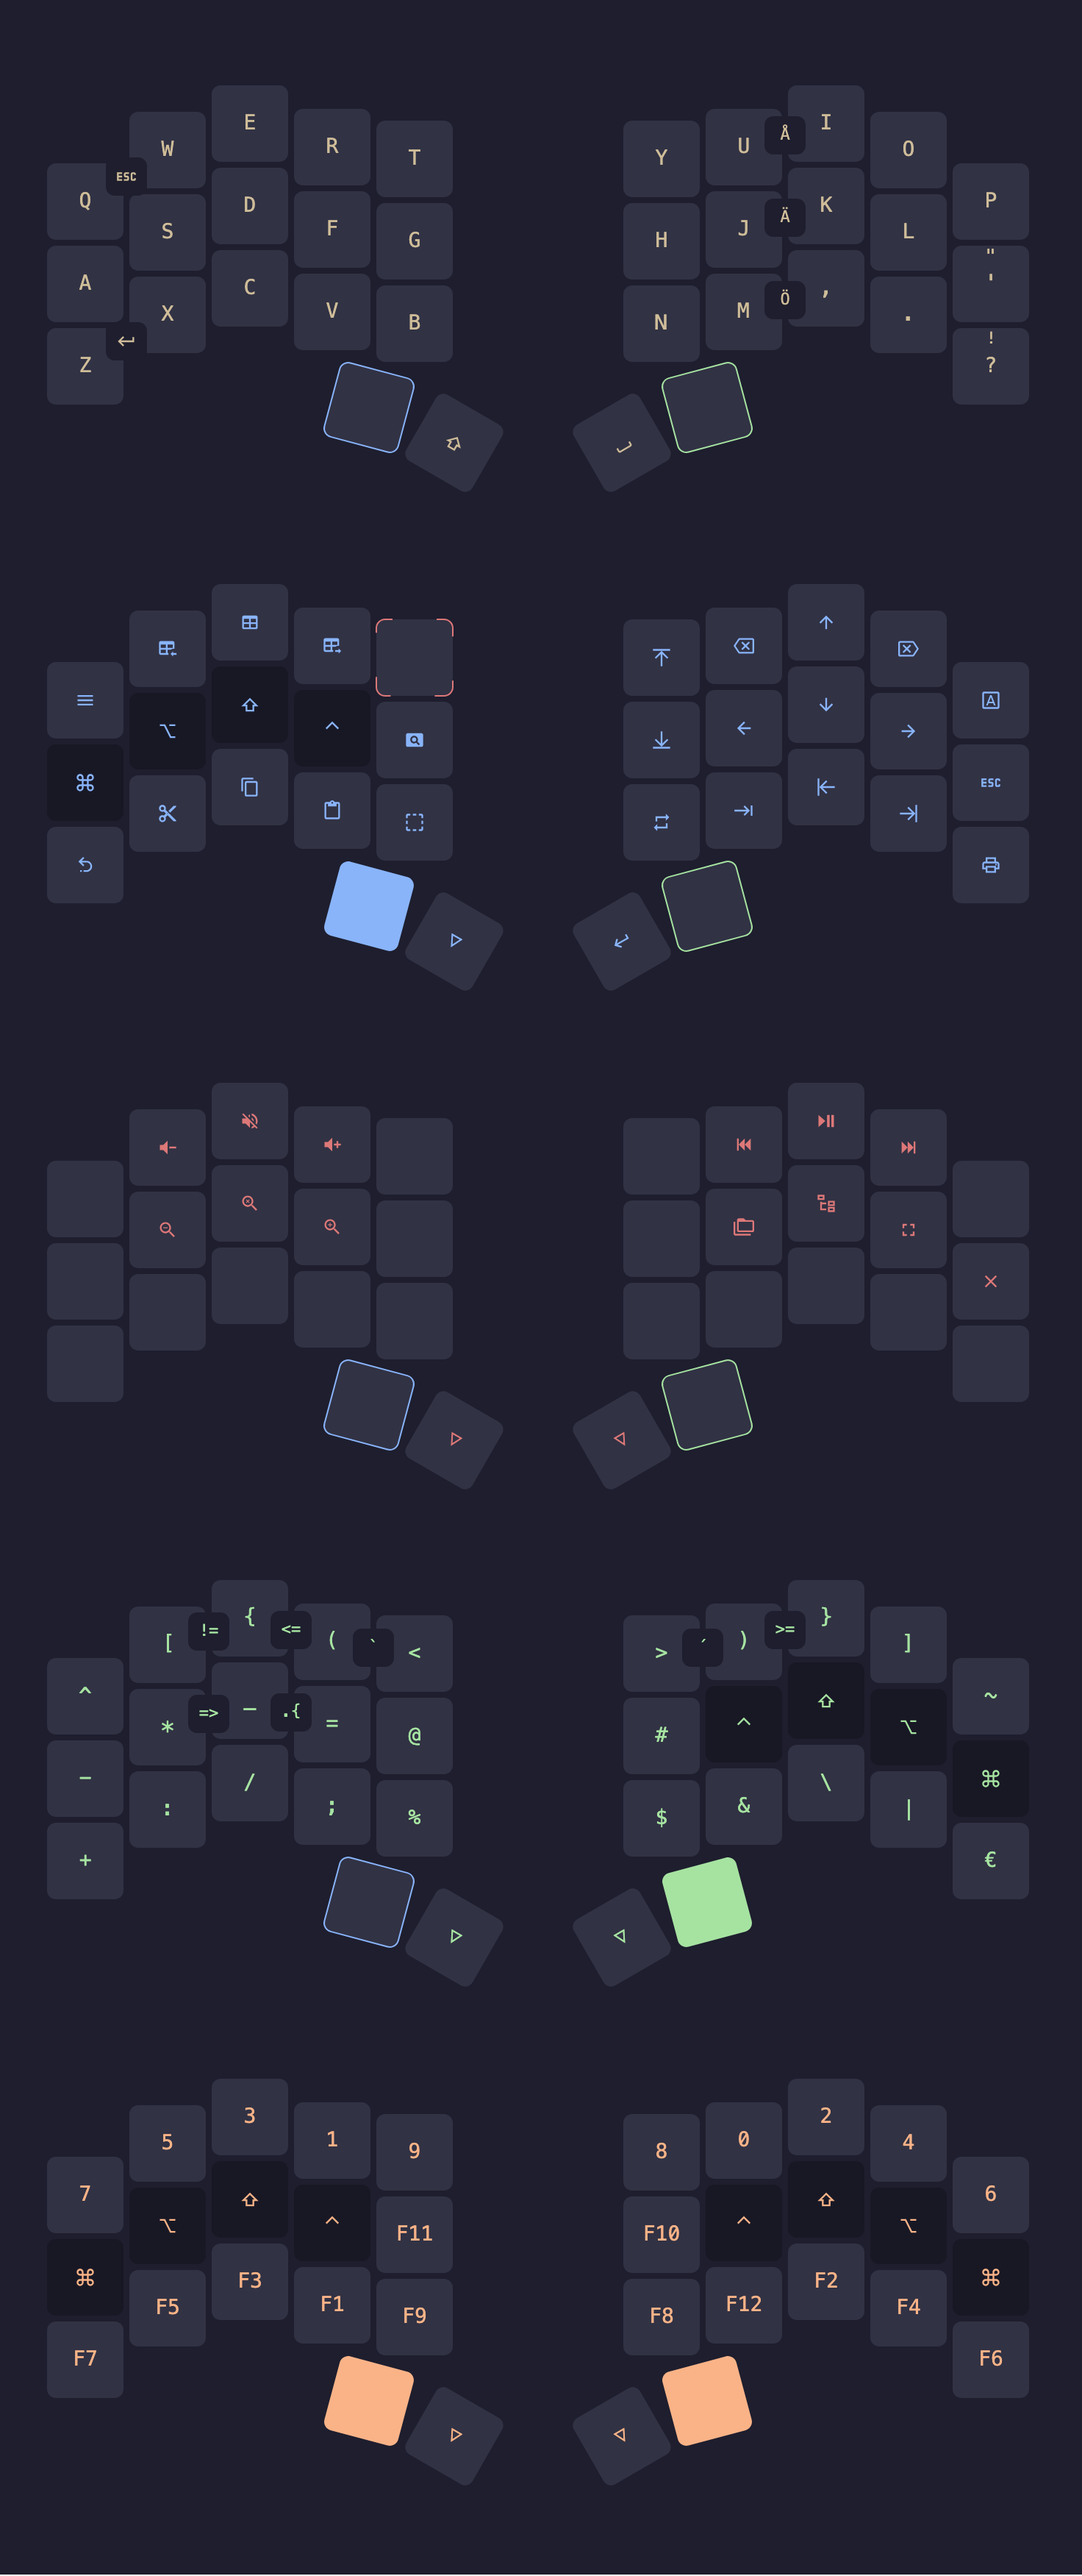
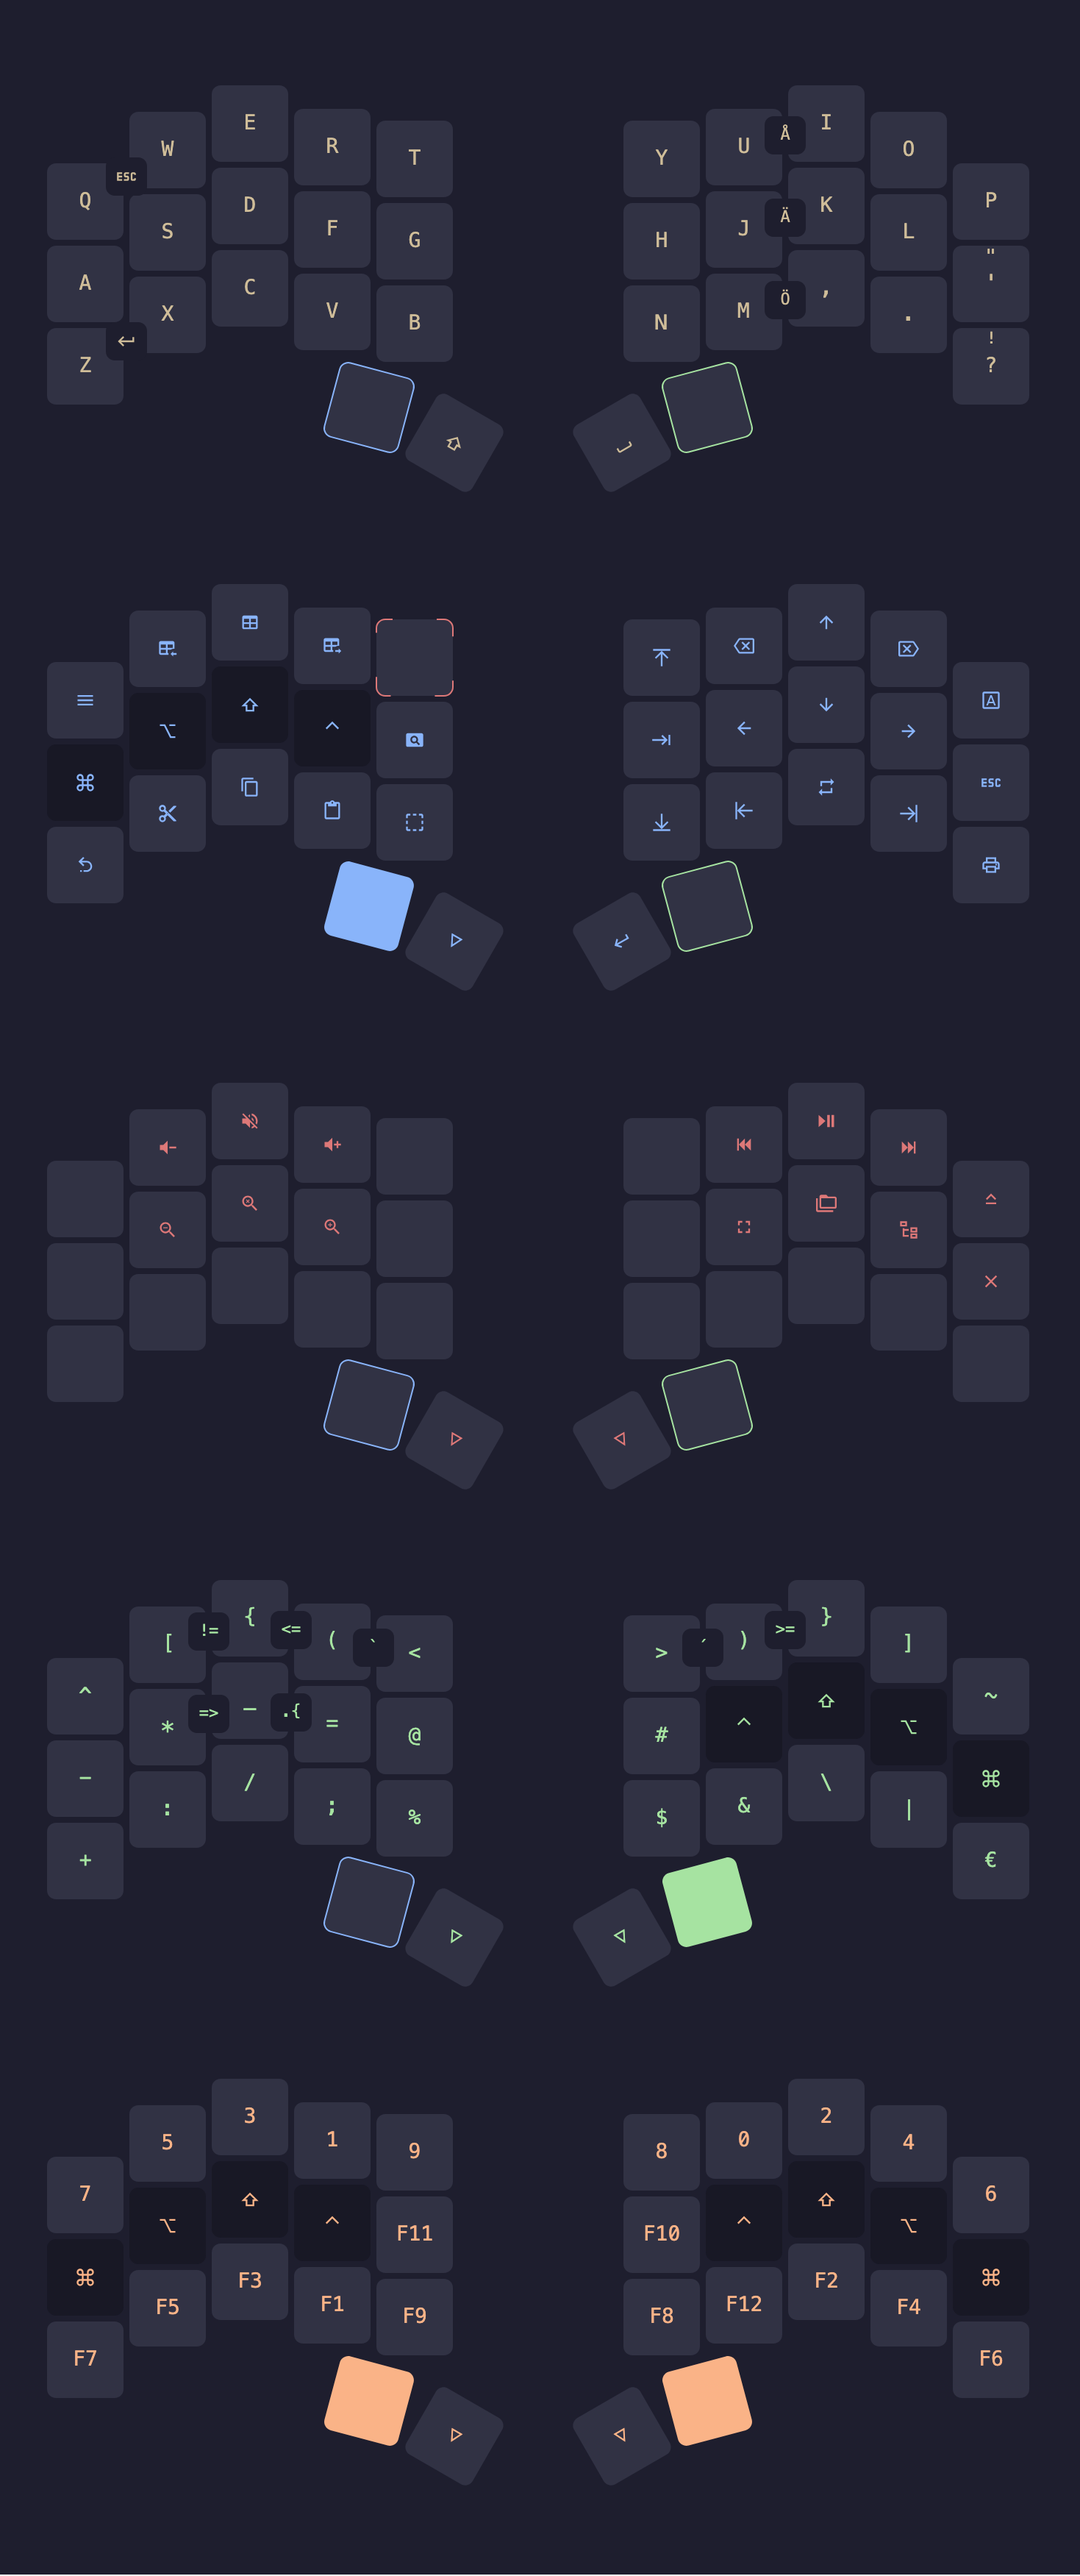
update both

Changed region(s): [[0.6739, 0.5291, 0.7046, 0.5603], [0.6127, 0.5291, 0.6433, 0.5603]]

diff --git a/ferris/keymap.c b/ferris/keymap.c
@@ -47,17 +47,17 @@ const uint16_t PROGMEM keymaps[][MATRIX_ROWS][MATRIX_COLS] = {
   ),
 
   [NAV] = LAYOUT_ferris_hlc(
-    KC_APP,  TB_LEFT, TB_NEXT, TB_RIGHT,LA_EXT,          KC_PGUP, KC_BSPC, KC_UP,   KC_DEL,  KC_CAPS,
-    OS_GUI,  OS_ALT,  OS_SHFT, OS_CTRL, MC_LCHR,         KC_PGDN, KC_LEFT, KC_DOWN, KC_RIGHT,KC_ESC,
-    MC_UNDO, MC_CUT,  MC_COPY, MC_PASTE,MC_SLCT,         QK_REP,  KC_TAB,  KC_HOME, KC_END,  MC_PSCR,
+    KC_APP,  TB_LEFT, TB_NEXT, TB_RIGHT,LA_EXT,          KC_PGUP, KC_BSPC, KC_UP,   KC_DEL,  CW_TOGG,
+    OS_GUI,  OS_ALT,  OS_SHFT, OS_CTRL, MC_LCHR,         KC_TAB,  KC_LEFT, KC_DOWN, KC_RIGHT,KC_CAPS,
+    MC_UNDO, MC_CUT,  MC_COPY, MC_PASTE,MC_SLCT,         KC_PGDN, KC_HOME, QK_REP , KC_END,  MC_PSCR,
                               _______, _______,          KC_ENT,  _______,
 
     XXXXXXX, XXXXXXX, XXXXXXX, XXXXXXX, XXXXXXX,         XXXXXXX, XXXXXXX, XXXXXXX, XXXXXXX, XXXXXXX
   ),
 
   [EXT] = LAYOUT_ferris_hlc(
-    XXXXXXX, KC_VOLD, KC_MUTE, KC_VOLU, XXXXXXX,         XXXXXXX, KC_MPRV, KC_MPLY, KC_MNXT, XXXXXXX,
-    XXXXXXX, MC_ZDEC, MC_ZRST, MC_ZINC, XXXXXXX,         XXXXXXX, MC_FILE, MC_TMGR, MC_TGLF, MC_QUIT,
+    XXXXXXX, KC_VOLD, KC_MUTE, KC_VOLU, XXXXXXX,         XXXXXXX, KC_MPRV, KC_MPLY, KC_MNXT, KC_CAPS,
+    XXXXXXX, MC_ZDEC, MC_ZRST, MC_ZINC, XXXXXXX,         XXXXXXX, MC_TGLF, MC_FILE, MC_TMGR, MC_QUIT,
     XXXXXXX, XXXXXXX, XXXXXXX, XXXXXXX, XXXXXXX,         XXXXXXX, XXXXXXX, XXXXXXX, XXXXXXX, XXXXXXX,
                                _______, _______,         KC_ENT,  _______,
 
@@ -102,7 +102,9 @@ bool is_oneshot_ignored_key(uint16_t keycode) {
   case LA_NAV:
   case LA_EXT:
   case LA_SYM:
+
   case KC_LSFT:
+
   case OS_SHFT:
   case OS_CTRL:
   case OS_ALT:
@@ -168,4 +170,28 @@ bool process_record_user(uint16_t keycode, keyrecord_t *record) {
 
 layer_state_t layer_state_set_user(layer_state_t state) {
   return update_tri_layer_state(state, SYM, NAV, NUM);
+}
+
+bool caps_word_press_user(uint16_t keycode) {
+    switch (keycode) {
+        case SE_MINS:
+
+        case KC_A ... KC_Z:
+        case SE_ADIA:
+        case SE_ARNG:
+        case SE_ODIA:
+          add_weak_mods(MOD_BIT(KC_LSFT));
+          return true;
+
+        case KC_1 ... KC_0:
+
+        case KC_BSPC:
+        case KC_DEL:
+
+        case SE_UNDS:
+            return true;
+
+        default:
+            return false;
+    }
 }

diff --git a/corne/keymap.c b/corne/keymap.c
@@ -45,7 +45,7 @@ const uint16_t PROGMEM keymaps[][MATRIX_ROWS][MATRIX_COLS] = {
 
     [NAV] = LAYOUT_split_3x5_3_ex2(
       KC_APP,  TB_LEFT, TB_NEXT, TB_RIGHT,LA_EXT,  XXXXXXX, XXXXXXX, KC_PGUP, KC_BSPC, KC_UP,  KC_DEL,  CW_TOGG,
-      OS_CTRL, OS_ALT,  OS_SHFT, OS_GUI,  MC_LCHR, XXXXXXX, XXXXXXX, KC_TAB,  KC_LEFT, KC_DOWN,KC_RIGHT,KC_ESC,
+      OS_CTRL, OS_ALT,  OS_SHFT, OS_GUI,  MC_LCHR, XXXXXXX, XXXXXXX, KC_TAB,  KC_LEFT, KC_DOWN,KC_RIGHT,KC_CAPS,
       MC_UNDO, MC_CUT,  MC_COPY, MC_PASTE,MC_SLCT,                   KC_PGDN, KC_HOME, QK_REP, KC_END,  MC_PSCR,
                         _______, _______, _______,                   KC_ENT, _______, _______
     ),
@@ -153,6 +153,11 @@ bool process_record_user(uint16_t keycode, keyrecord_t *record) {
     keycode, record
   );
 
+  if (keycode == KC_CAPS && record->event.pressed) {
+    tap_code(KC_CAPS);
+    return false;
+  }
+
   return true;
 }
 
@@ -180,6 +185,6 @@ bool caps_word_press_user(uint16_t keycode) {
             return true;
 
         default:
-            return false;  // Deactivate Caps Word.
+            return false;
     }
 }
